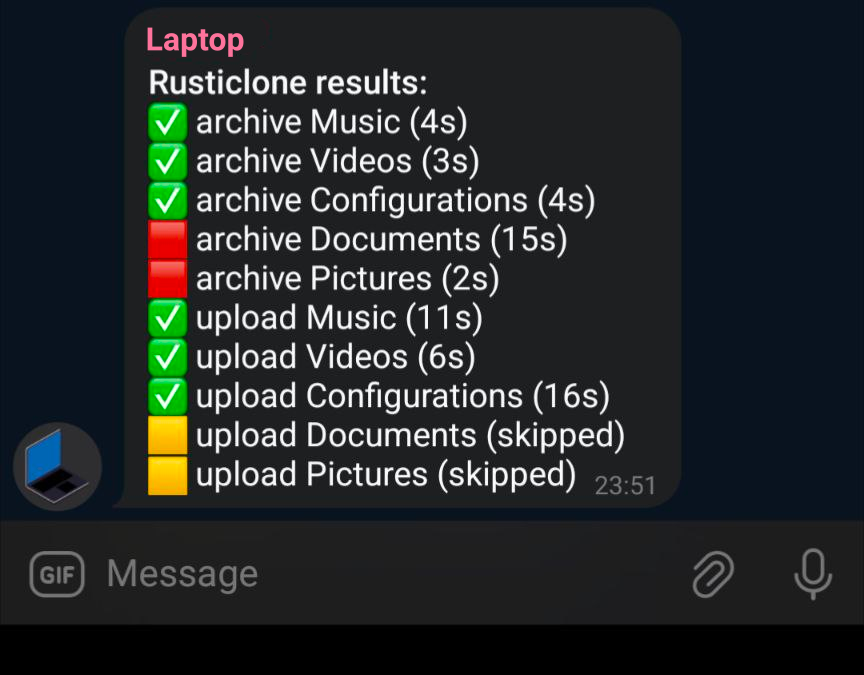
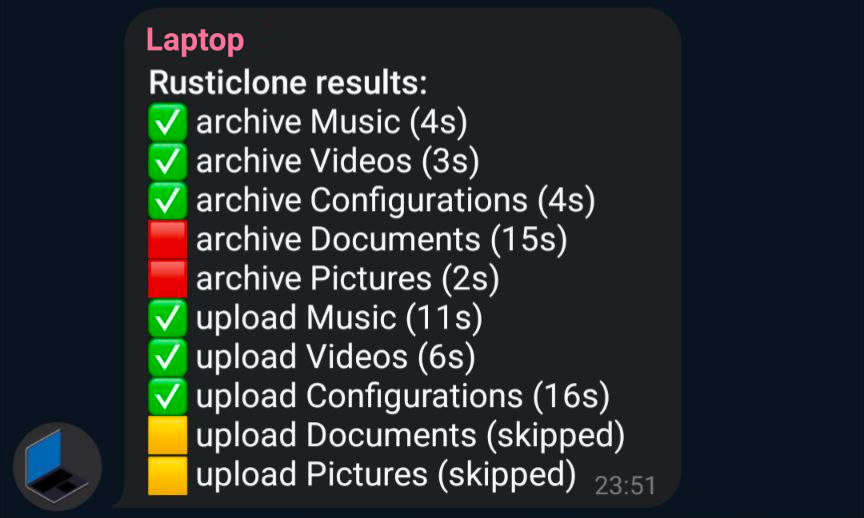
minor: aligned images

diff --git a/README.md b/README.md
@@ -26,8 +26,10 @@
 
 # Rusticlone
 
+<div style='text-align: center;'>
 <img alt="PyPI Downloads" src="https://static.pepy.tech/badge/rusticlone">
 <img alt="Test Coverage" src="https://github.com/AlphaJack/rusticlone/raw/master/images/coverage.svg">
+</div>
 
 <p style='text-align: center;'>
 <strong>3-2-1 backups using Rustic and RClone</strong>
